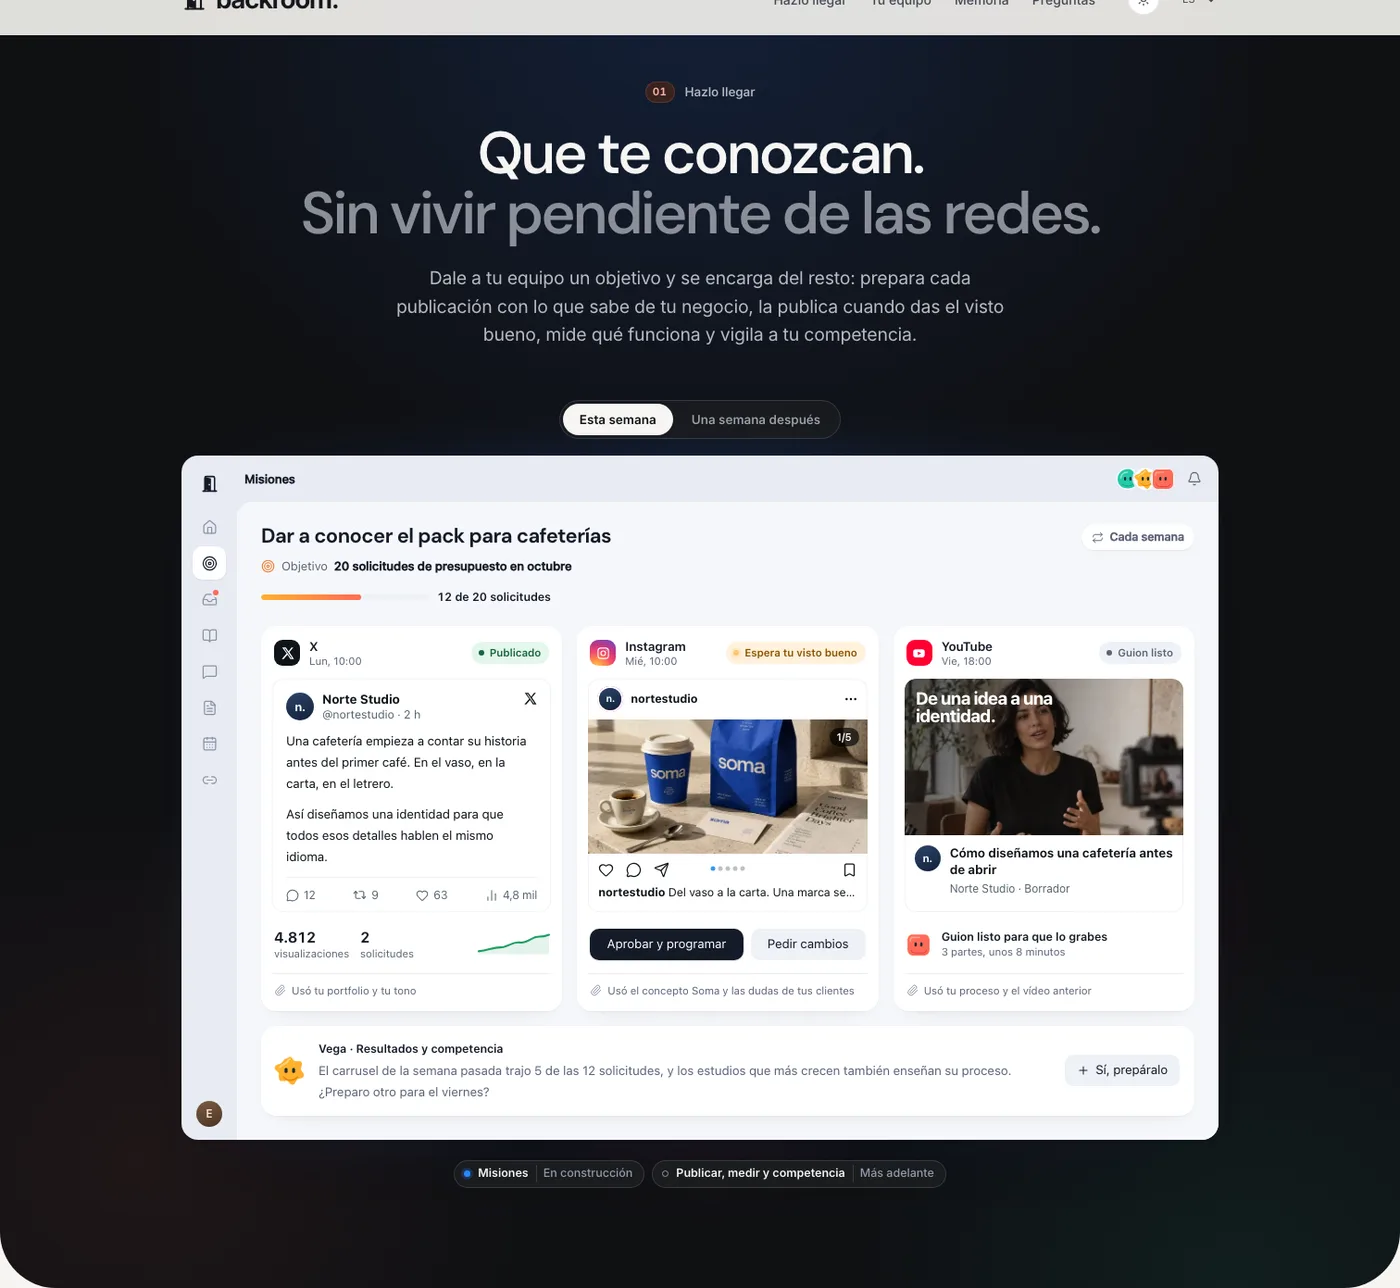
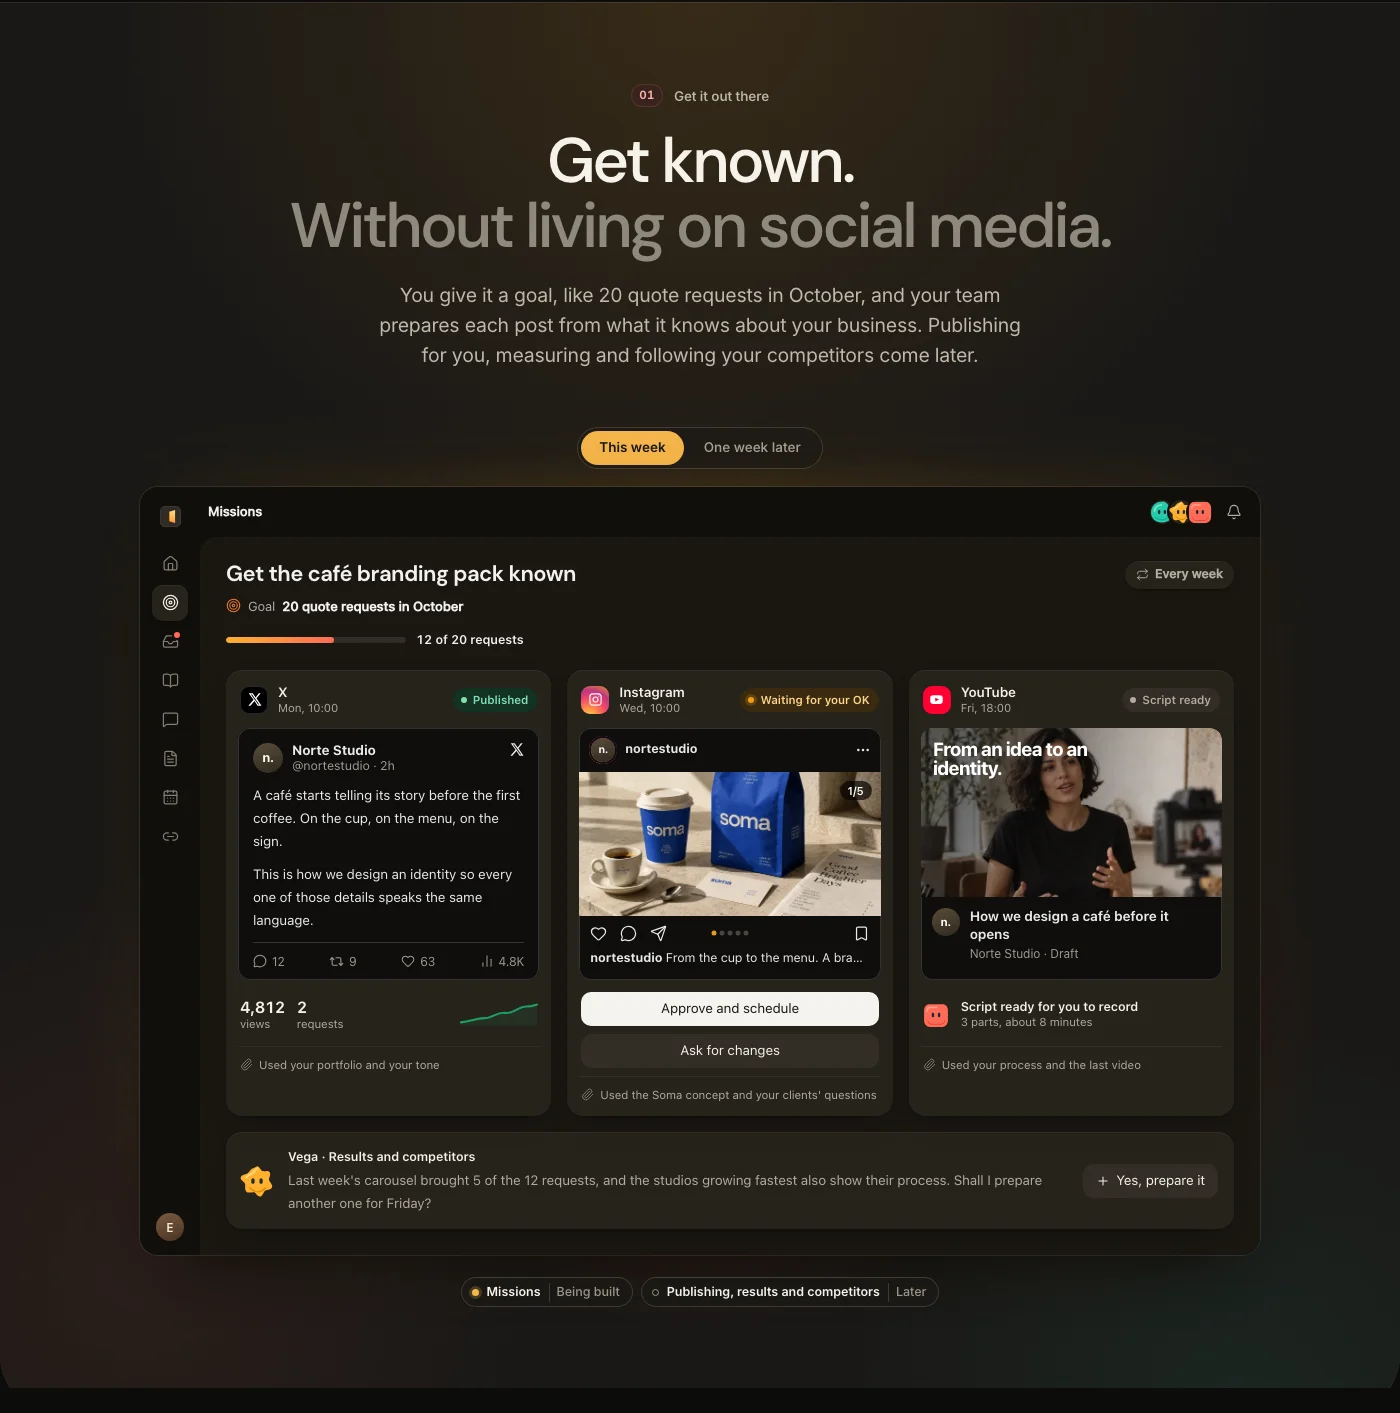
Textos revisados con copy-que-vende y copy-sin-ia, README con las dos paletas
Se quitan rayas, anuncios, relleno y listas de tres que no aportan. La
sección de distribución ya no presenta publicar, medir y seguir a la
competencia como algo que existe hoy. La línea del hero dice qué hace el
equipo. El enlace a una política de privacidad que no existe en este
repositorio desaparece. El README enseña el hero en dorado y en azul.

diff --git a/modules/home/components/Landing.tsx b/modules/home/components/Landing.tsx
@@ -13,7 +13,6 @@ import { HeroClouds, HeroSky } from "@home/components/v3/HeroSky";
 import { HeroFloaters, RequestMarquee } from "@home/components/v3/HeroStage";
 import { MotionScope } from "@home/components/v3/MotionScope";
 import { SectionHeading } from "@home/components/v3/SectionHeading";
-import { LocaleLink } from "@i18n/routing";
 import { ArrowDown, ArrowRight, Check, Plus } from "lucide-react";
 import { getTranslations } from "next-intl/server";
 
@@ -222,15 +221,7 @@ export async function Landing() {
 										<Plus size={18} />
 									</span>
 								</summary>
-								<p>
-									{key === "seven"
-										? t.rich("faq.seven.a", {
-												privacy: (chunks) => (
-													<LocaleLink href="/legal/privacy-policy">{chunks}</LocaleLink>
-												),
-											})
-										: t(`faq.${key}.a`)}
-								</p>
+								<p>{t(`faq.${key}.a`)}</p>
 							</details>
 						))}
 					</div>

diff --git a/README.md b/README.md
@@ -1,24 +1,23 @@
 # Backroom
 
-Backroom is an open-source landing page for an AI agent product: a team of agents that runs the work of a small business while the owner decides. It is a Next.js site with a day and night sky drawn in CSS and WebGL, four product screens built in HTML instead of screenshots, and copy in Spanish and English.
+Backroom is an open-source landing page for an AI agent product: a team of agents that runs the work of a small business while the owner decides. It is a Next.js site with a night sky drawn in CSS and WebGL, in two palettes, gold and night blue, four product screens built in HTML instead of screenshots, and copy in Spanish and English.
 
 The product it shows is fictional, and so is every name, number and screen in it. Take the page, change the words and the product, and ship it.
 
-<picture>
-  <source media="(prefers-color-scheme: dark)" srcset=".github/hero-dark.webp">
-  <img alt="Backroom hero: a headline over a morning sky, with the product window resting on clouds" src=".github/hero-light.webp">
-</picture>
+![Backroom hero in the gold palette: a headline over a warm night sky, with the product window resting on clouds](.github/hero-gold.webp)
+
+![The same hero in the night blue palette](.github/hero-blue.webp)
 
 ## What is in the page
 
-- **Hero:** a headline with inline icons, three guarantees and a working product window with three views. The sky changes with the theme, from a clear morning to an almost empty night, and the clouds are original renders made by a script in this repository.
+- **Hero:** a headline with inline icons, three guarantees and a working product window with three views. The sky is an almost empty night lit from the product window, and the clouds are original renders made by a script in this repository.
 - **Four sections**, each one a product screen you can click:
   - a distribution mission with posts for X, Instagram and YouTube, which you approve, and a switch to see the results a week later;
   - a conversation that turns a request into a small task board;
   - a memory you correct in one sentence;
   - a phone inbox that asks for permission before anything is published.
 - **Questions and a signup form** that sends JSON to any endpoint you choose.
-- **Light and dark themes, Spanish and English**, a pause button for every animation, and no animation when the visitor asks for reduced motion.
+- **Two palettes, gold and night blue,** with a switch in the header, Spanish and English, a pause button for every animation, and no animation when the visitor asks for reduced motion.
 
 ![The distribution section: one mission with an X post, an Instagram carousel waiting for approval and a YouTube video in progress](.github/distribution.webp)
 
@@ -41,7 +40,8 @@ The page opens at http://localhost:3000 in Spanish, and at /en in English.
 | ------------------------------------ | ------------------------------------------------------------------------------------------------------ |
 | Every text on the page               | `messages/es.json` and `messages/en.json`                                                              |
 | Where the signup form sends its data | `NEXT_PUBLIC_SIGNUP_ENDPOINT` in `.env.local` (see `.env.example`)                                     |
-| Colours for light and dark           | `modules/home/components/landing-theme.css`                                                            |
+| Colours of the gold palette          | `modules/home/components/landing-theme.css` and the colours in each stylesheet                         |
+| Colours of the night blue palette    | `scripts/palette/blue.mjs`, which writes `modules/home/components/palette-blue.css`                    |
 | The sky                              | `modules/home/components/v3/sky.css`                                                                   |
 | The clouds                           | `scripts/hero-sky/render.mjs`, then `pnpm render:sky`                                                  |
 | The name and logo                    | `modules/home/components/BrandMark.tsx` and the word `backroom.` in the nav, footer and product window |
@@ -51,7 +51,7 @@ Without `NEXT_PUBLIC_SIGNUP_ENDPOINT` the form sends nothing and only shows its 
 
 ## How it is built
 
-The site uses Next.js, React, next-intl for the two languages, next-themes for the theme and Base UI for the dialogs. The styles are plain CSS files, without Tailwind or a component kit. The page itself starts in `modules/home/components/Landing.tsx`, the four product screens are in `modules/home/components/sections/`, and the hero is in `modules/home/components/v3/`.
+The site uses Next.js, React, next-intl for the two languages, next-themes for the palette switch and Base UI for the dialogs. The styles are plain CSS files, without Tailwind or a component kit. The page itself starts in `modules/home/components/Landing.tsx`, the four product screens are in `modules/home/components/sections/`, and the hero is in `modules/home/components/v3/`.
 
 The cloud renderer needs Playwright's Chromium, because it draws the clouds with WebGL in a headless browser. The page does not need it, since the rendered images are already in `public/images/landing/`, where a README explains each one.
 
